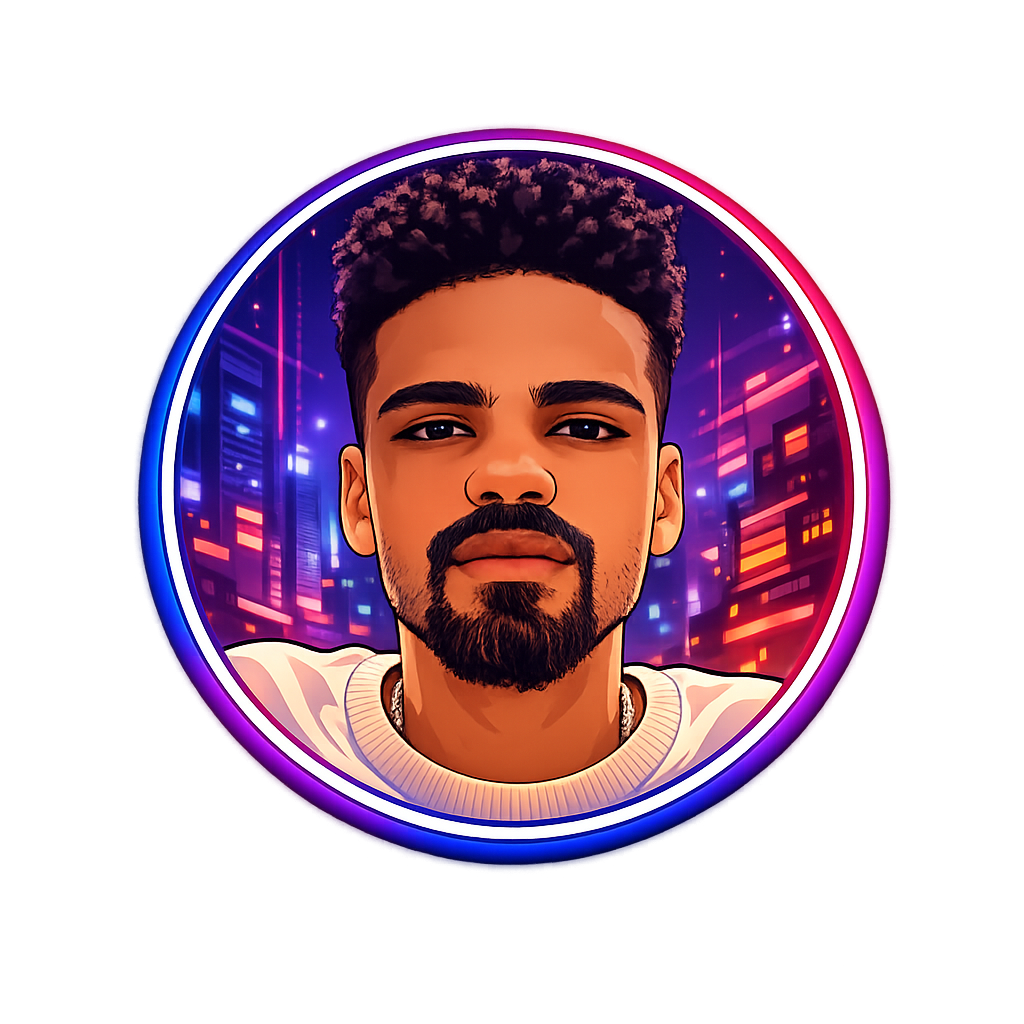
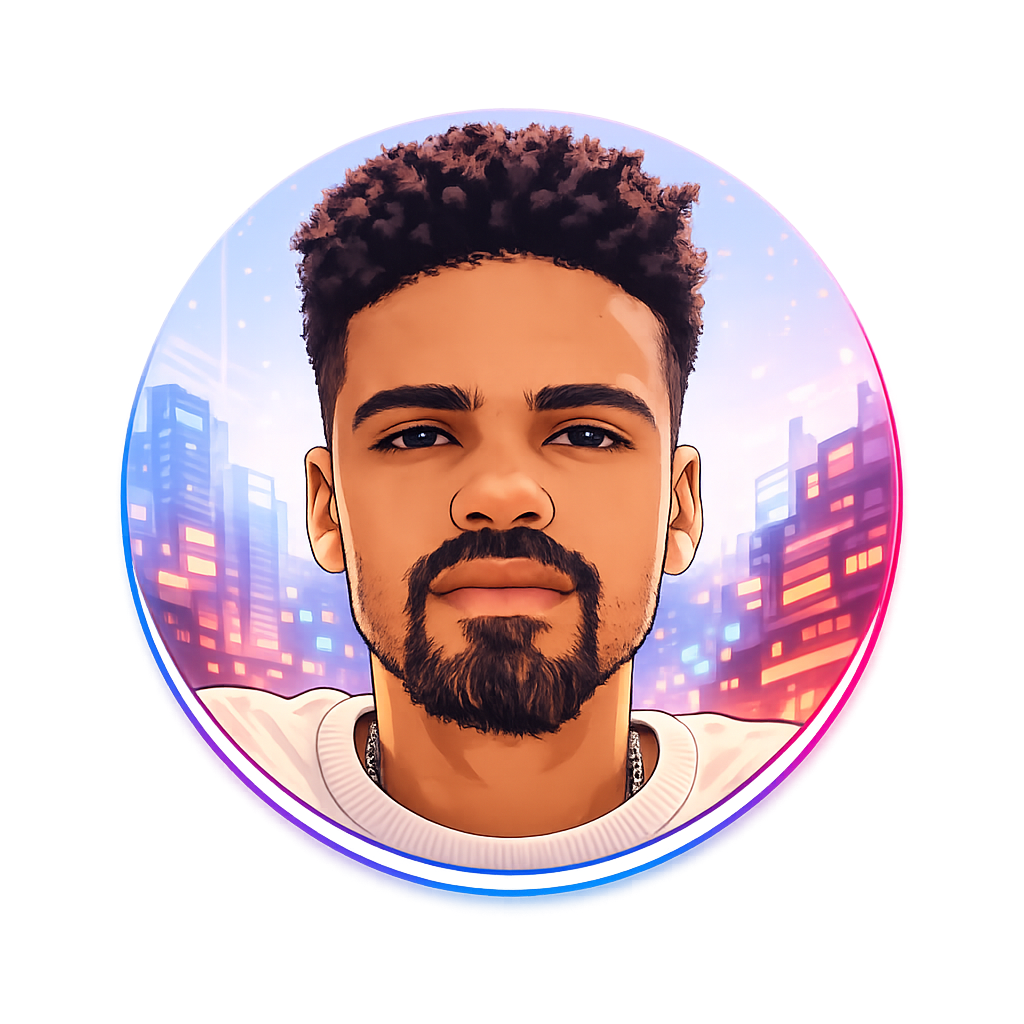
add other image for the light mode

diff --git a/script.js b/script.js
@@ -1,5 +1,10 @@
 function toggleMode() {
   const html = document.documentElement
   html.classList.toggle("light")
-  
+  const img = document.querySelector("#profile img")
+  if (html.classList.contains("light")) {
+    img.setAttribute("src", "./assets/foto perfil light.png")
+  } else {
+    img.setAttribute("src", "./assets/foto perfil.png")
+  }
 }
